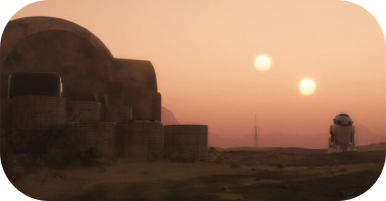
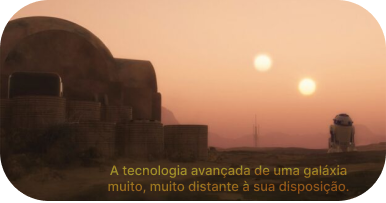
adicionando imagem de fundo

diff --git a/mobile/lib/pages/produtos/produtos_page.dart b/mobile/lib/pages/produtos/produtos_page.dart
@@ -119,7 +119,14 @@ class _ProdutosPageState extends State<ProdutosPage> {
           ),
         ),
       ),
-      body: Column(),
+      body: Column(
+        children: [
+          Padding(
+            padding: const EdgeInsets.symmetric(horizontal: 5),
+            child: Image.asset('assets/images/tatooine.png'),
+          ),
+        ],
+      ),
     );
   }
 }
